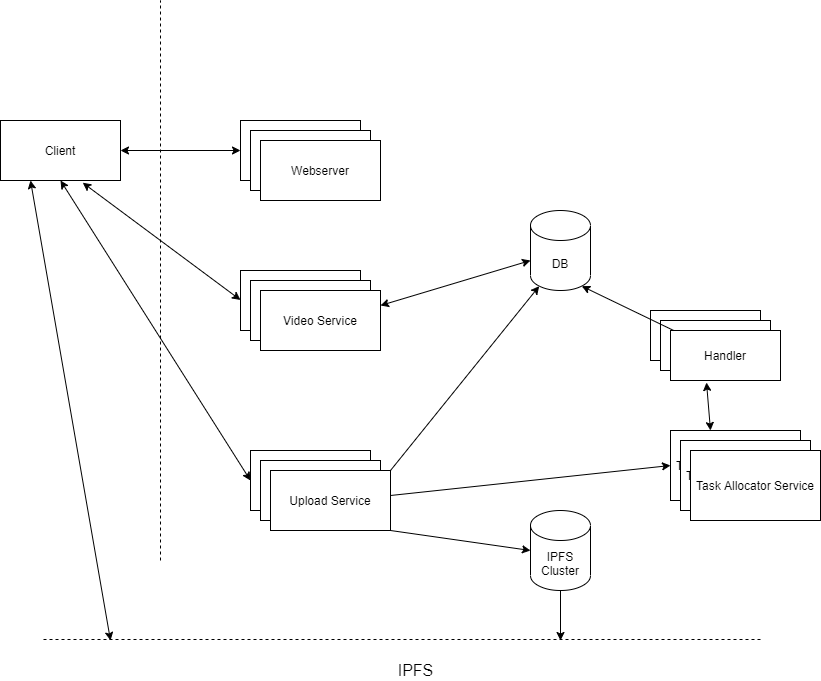
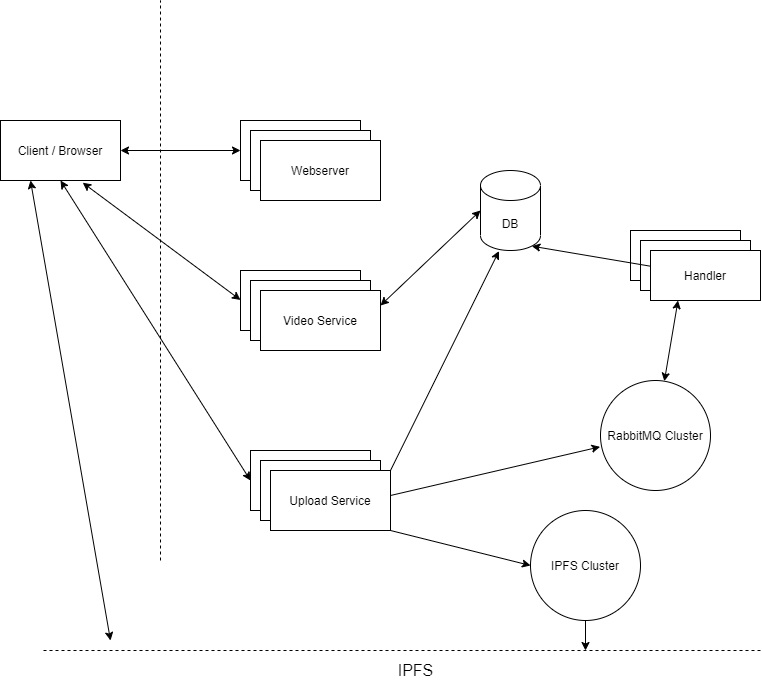
rabbit mq changes

diff --git a/README.md b/README.md
@@ -1,6 +1,6 @@
-# VP-CAP architecture
+# VP-CAP Architecture
 
-VP CAP (Video Platform with Content based Ad Placement)
+VP-CAP (Video Platform with Content based Ad Placement)
 
 <img src="diagram/vp-cap.png" width=600>
 
@@ -48,10 +48,7 @@ cd <service-folder>
 ```
 
 ## Problems
-- Task allocator uses an in memory queue, if service is down, the queue data is lost, not fault tolerant.
 
-    Possible solutions: Rabbitmq as a broker which handles persistence, failures?
-
-- DB single point of failure, bottleneck as all service would send their requests.
+- DB may become a bottleneck as all service would send their requests.
 
     Possible solutions: increase cluster size of db or multiple/partitioned db
